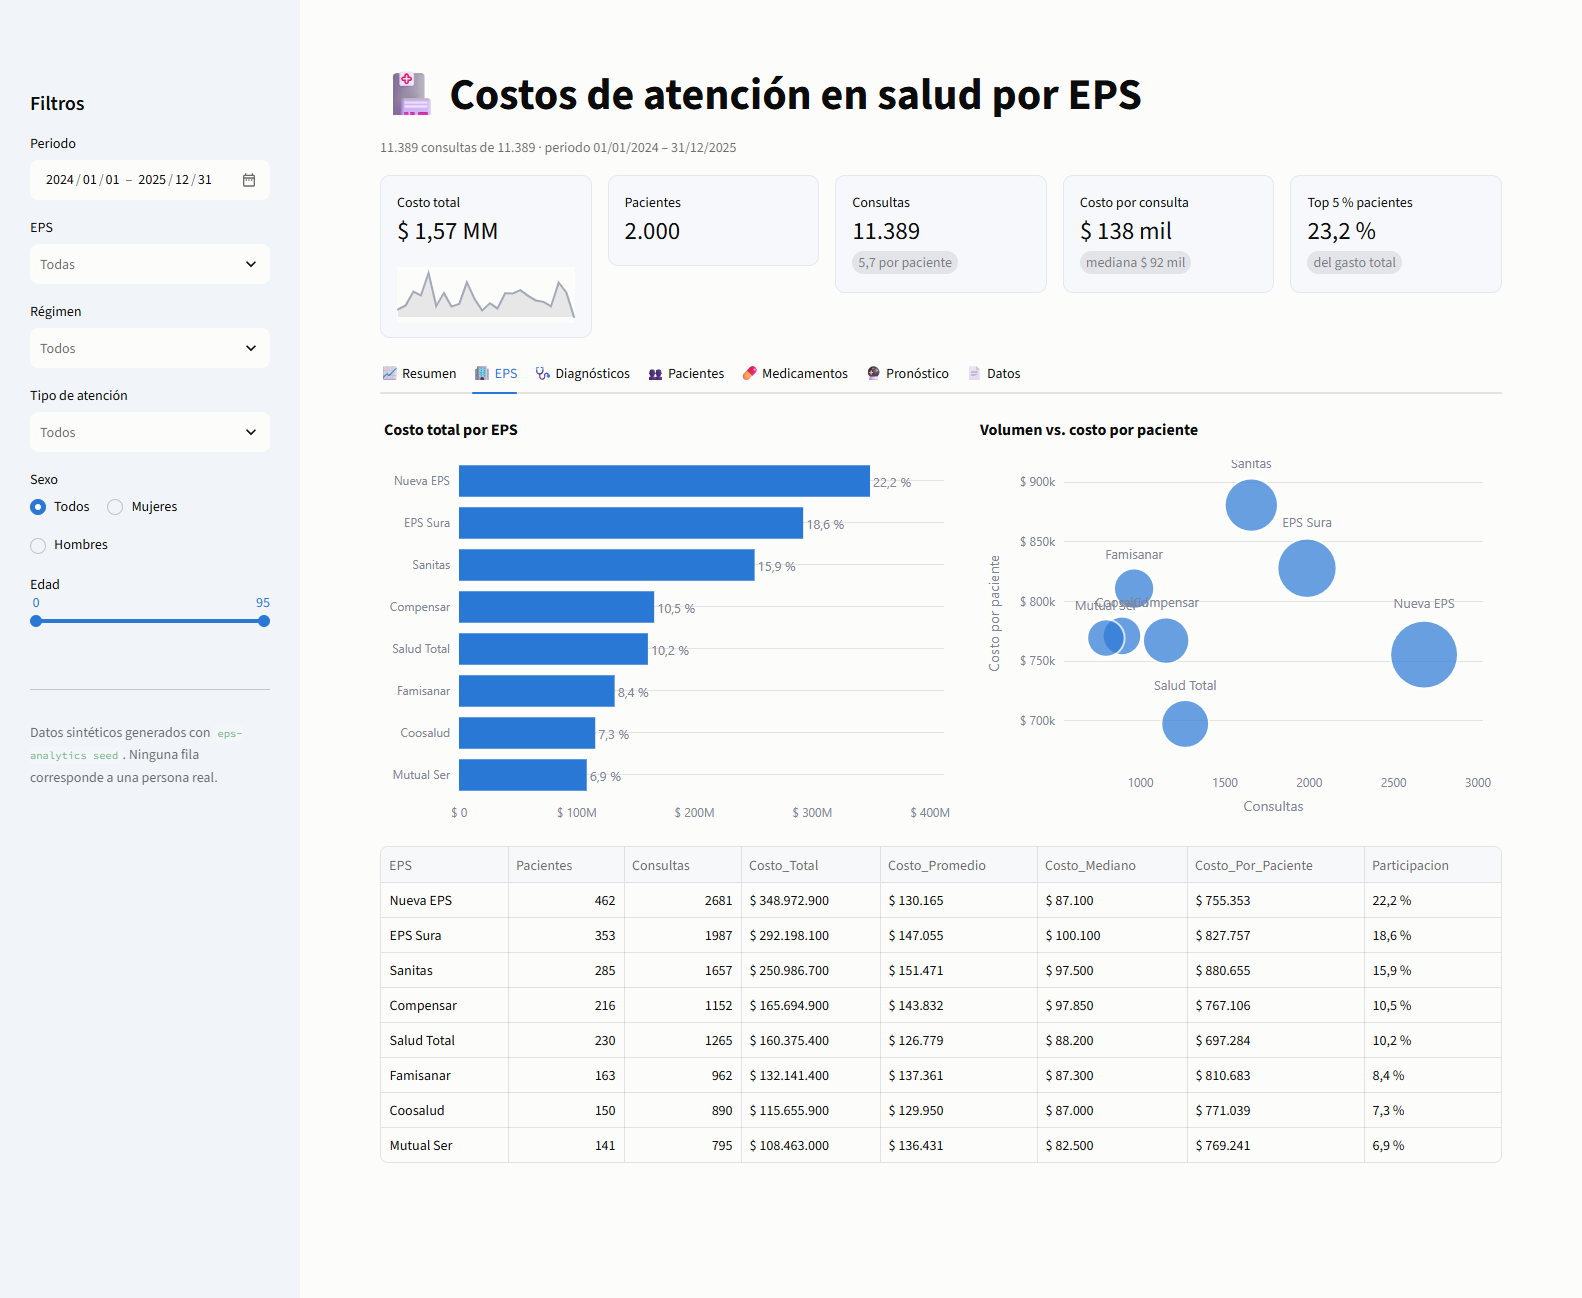
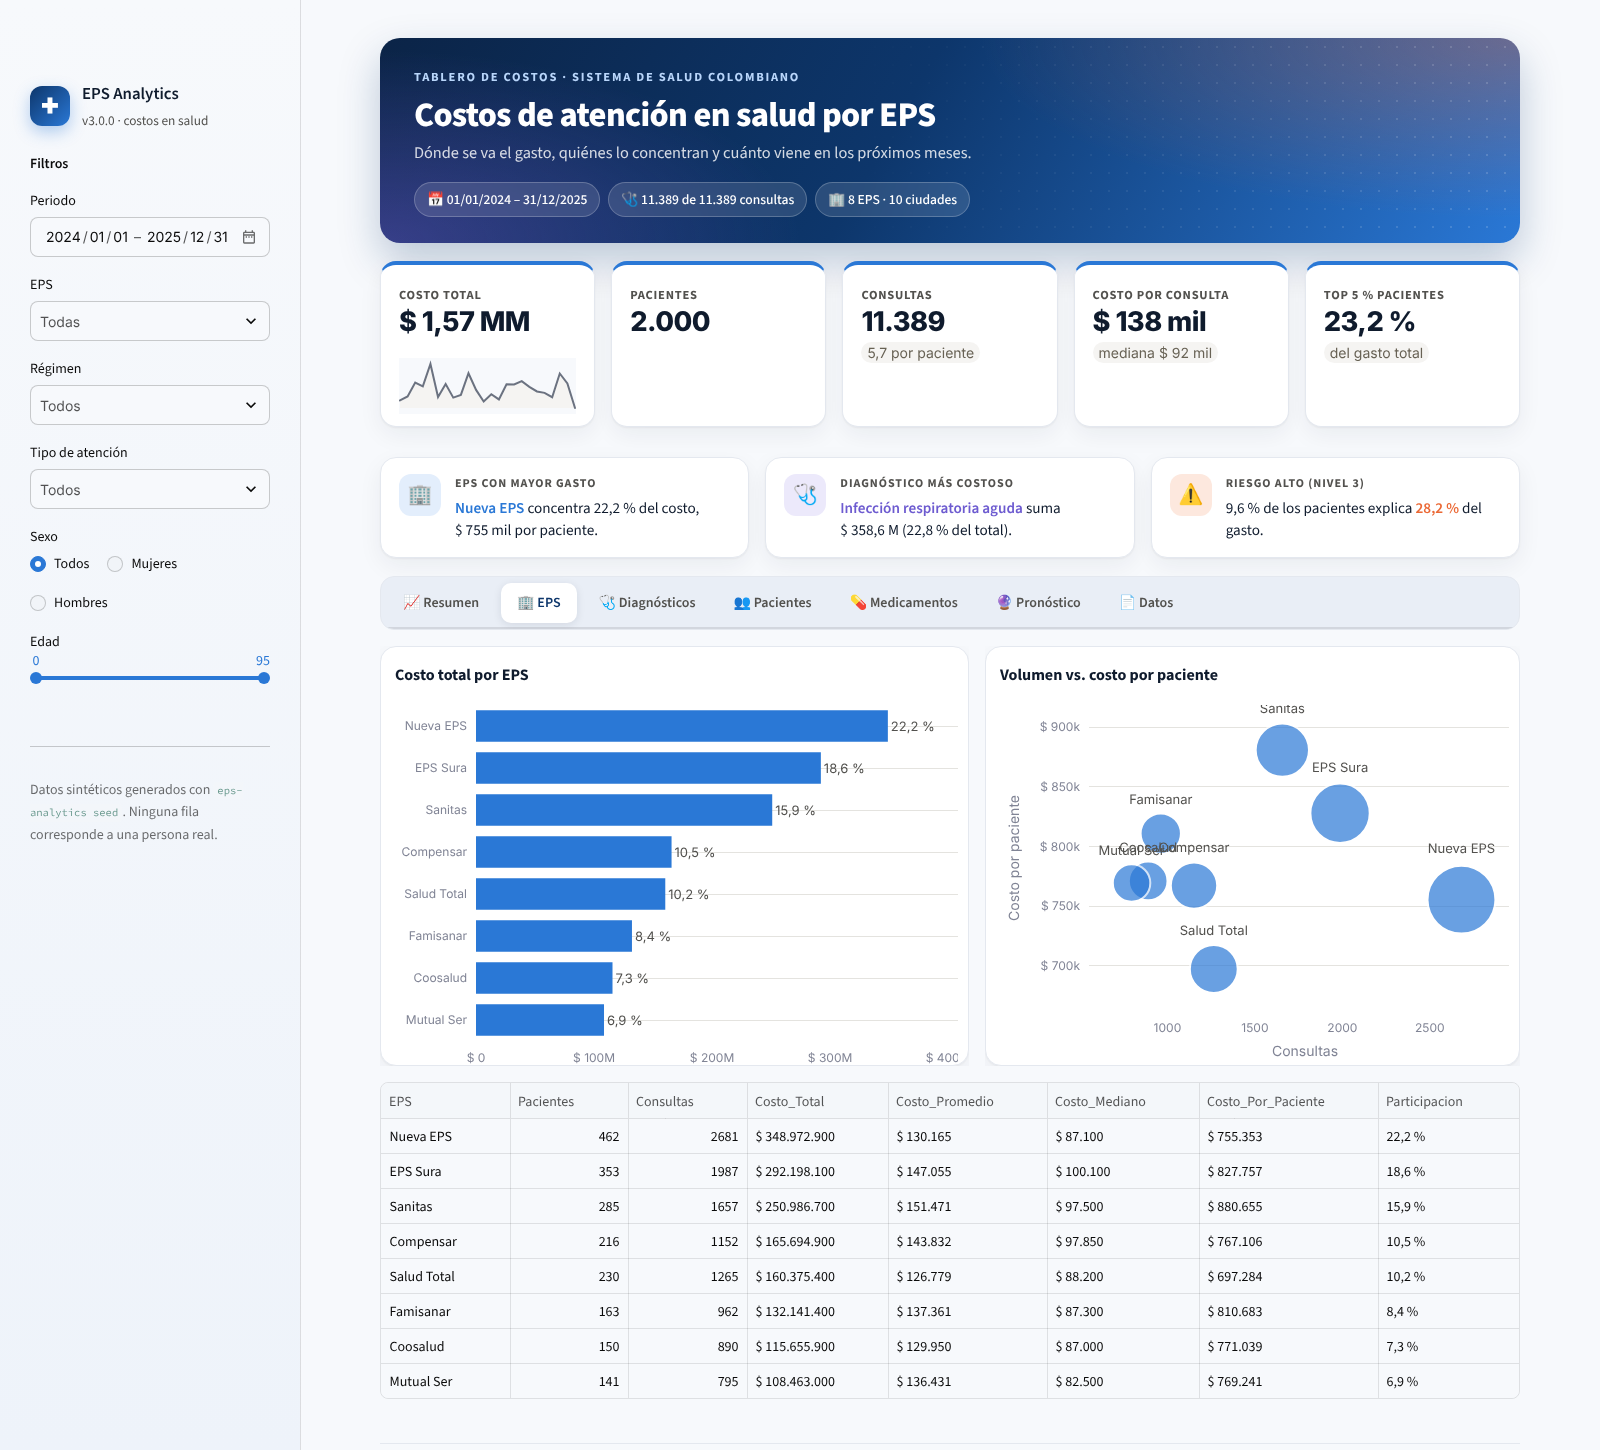
feat(dashboard): rediseño visual con encabezado, hallazgos clave y tema propio
- Encabezado con degradado, periodo y alcance de la selección.
- Tarjetas de indicadores con acento y altura uniforme.
- Tres hallazgos calculados con los filtros: EPS con mayor gasto,
  diagnóstico más costoso y peso del nivel 3 de riesgo.
- Pestañas tipo píldora, gráficos en tarjetas, marca en la barra lateral y pie.
- Estilos separados en dashboard/estilos.css; capturas de docs/images actualizadas.

diff --git a/dashboard/estilos.css b/dashboard/estilos.css
@@ -1,0 +1,125 @@
+@import url("https://fonts.googleapis.com/css2?family=Inter:wght@400;500;600;700;800&display=swap");
+
+:root {
+  --tinta: #0f1b2d;
+  --texto-2: #52514e;
+  --azul: #2a78d6;
+  --azul-osc: #0d366b;
+  --naranja: #eb6834;
+  --violeta: #6d5bd0;
+  --borde: #e4e8ef;
+  --tarjeta: #ffffff;
+  --sombra: 0 1px 2px rgba(15, 27, 45, 0.05), 0 8px 24px rgba(15, 27, 45, 0.06);
+}
+
+.stApp, .stMarkdown, [data-testid="stWidgetLabel"], input { font-family: "Inter", "Segoe UI", sans-serif; }
+.block-container { padding-top: 1.4rem; padding-bottom: 2.5rem; max-width: 1480px; }
+header[data-testid="stHeader"] { background: transparent; }
+
+/* Encabezado */
+.hero {
+  position: relative; overflow: hidden;
+  padding: 30px 34px 26px; margin-bottom: 18px; border-radius: 20px; color: #fff;
+  background:
+    radial-gradient(900px 300px at 100% 0%, rgba(235, 104, 52, 0.35), transparent 60%),
+    radial-gradient(700px 320px at 0% 100%, rgba(109, 91, 208, 0.45), transparent 60%),
+    linear-gradient(120deg, #0b2447 0%, #0d366b 45%, #2a78d6 100%);
+  box-shadow: 0 18px 40px rgba(13, 54, 107, 0.25);
+}
+.hero::after {
+  content: ""; position: absolute; inset: 0; pointer-events: none;
+  background-image: radial-gradient(rgba(255, 255, 255, 0.16) 1px, transparent 1px);
+  background-size: 18px 18px;
+  mask-image: linear-gradient(90deg, transparent 40%, #000 100%);
+}
+.hero-kicker {
+  font-size: 0.78rem; font-weight: 700; letter-spacing: 0.14em; text-transform: uppercase;
+  color: #b9d6fb;
+}
+.hero h1 {
+  margin: 6px 0 4px; padding: 0; color: #fff; font-size: 2.15rem; font-weight: 800; letter-spacing: -0.02em;
+}
+.hero p { margin: 0 0 16px; color: rgba(255, 255, 255, 0.82); font-size: 1.02rem; }
+.hero-chips { display: flex; flex-wrap: wrap; gap: 8px; position: relative; z-index: 1; }
+.hero-chips span {
+  padding: 6px 12px; border-radius: 999px; font-size: 0.85rem; font-weight: 500;
+  background: rgba(255, 255, 255, 0.12); border: 1px solid rgba(255, 255, 255, 0.22);
+  backdrop-filter: blur(6px);
+}
+
+/* Indicadores */
+[data-testid="stMetric"] {
+  background: var(--tarjeta); border: 1px solid var(--borde); border-radius: 16px;
+  padding: 16px 18px 12px; box-shadow: var(--sombra);
+  border-top: 4px solid var(--azul);
+  transition: transform 0.15s ease, box-shadow 0.15s ease;
+}
+[data-testid="stColumn"]:has([data-testid="stMetric"]) > [data-testid="stVerticalBlock"],
+[data-testid="stElementContainer"]:has(> [data-testid="stMetric"]) { height: 100%; }
+[data-testid="stMetric"] { height: 100%; }
+[data-testid="stMetric"]:hover { transform: translateY(-2px); box-shadow: 0 14px 30px rgba(15, 27, 45, 0.1); }
+[data-testid="stMetricLabel"] p {
+  font-size: 0.78rem; font-weight: 700; letter-spacing: 0.06em; text-transform: uppercase; color: var(--texto-2);
+}
+[data-testid="stMetricValue"] { font-size: 1.7rem; font-weight: 800; color: var(--tinta); letter-spacing: -0.02em; }
+
+/* Hallazgos */
+.insight {
+  display: flex; gap: 14px; align-items: flex-start; height: 100%;
+  padding: 16px 18px; margin: 14px 0 6px; border-radius: 16px;
+  background: var(--tarjeta); border: 1px solid var(--borde); box-shadow: var(--sombra);
+}
+.insight-icono {
+  flex: 0 0 42px; height: 42px; display: grid; place-items: center; border-radius: 12px; font-size: 1.25rem;
+}
+.insight-azul .insight-icono { background: #e3eefc; }
+.insight-violeta .insight-icono { background: #ece9fb; }
+.insight-naranja .insight-icono { background: #fde8de; }
+.insight-titulo {
+  font-size: 0.75rem; font-weight: 700; letter-spacing: 0.08em; text-transform: uppercase; color: var(--texto-2);
+}
+.insight-texto { margin-top: 3px; font-size: 0.95rem; line-height: 1.45; color: var(--tinta); }
+.insight-azul b { color: var(--azul); }
+.insight-violeta b { color: var(--violeta); }
+.insight-naranja b { color: var(--naranja); }
+
+/* Pestañas tipo píldora */
+.stTabs [role="tablist"] {
+  gap: 6px; padding: 6px; margin-top: 12px; border-radius: 14px; background: #e9eef6; border: 1px solid var(--borde);
+  border-bottom: 1px solid var(--borde);
+}
+.stTabs [role="tab"] {
+  display: flex; align-items: center; height: 40px; padding: 0 16px; border-radius: 10px;
+  color: var(--texto-2); transition: background 0.15s ease;
+}
+.stTabs [role="tab"] p { font-weight: 600; }
+.stTabs [role="tab"]:hover { background: rgba(255, 255, 255, 0.6); }
+.stTabs [role="tab"][aria-selected="true"] {
+  background: #fff; color: var(--azul-osc); box-shadow: 0 2px 8px rgba(15, 27, 45, 0.1);
+}
+.stTabs .react-aria-SelectionIndicator, .stTabs [data-baseweb="tab-highlight"],
+.stTabs [data-baseweb="tab-border"] { display: none; }
+
+/* Gráficos y tablas como tarjetas */
+[data-testid="stPlotlyChart"] {
+  background: var(--tarjeta); border: 1px solid var(--borde); border-radius: 16px;
+  padding: 8px 10px; box-shadow: var(--sombra);
+}
+
+/* Barra lateral */
+section[data-testid="stSidebar"] { background: linear-gradient(180deg, #f7f9fc 0%, #eef3fa 100%); }
+.marca { display: flex; align-items: center; gap: 12px; margin: 4px 0 18px; }
+.marca-logo {
+  width: 40px; height: 40px; display: grid; place-items: center; border-radius: 12px;
+  color: #fff; font-size: 1.3rem; font-weight: 800;
+  background: linear-gradient(135deg, #0d366b, #2a78d6);
+  box-shadow: 0 6px 16px rgba(42, 120, 214, 0.35);
+}
+.marca b { display: block; color: var(--tinta); font-size: 1.05rem; }
+.marca small { color: var(--texto-2); }
+
+.pie {
+  margin-top: 28px; padding-top: 16px; border-top: 1px solid var(--borde);
+  text-align: center; font-size: 0.85rem; color: var(--texto-2);
+}
+.pie b { color: var(--azul-osc); }

diff --git a/dashboard/app.py b/dashboard/app.py
@@ -5,7 +5,10 @@ Ejecutar con:  eps-analytics dashboard   (o)   streamlit run dashboard/app.py
 
 from __future__ import annotations
 
+import html
 import io
+import re
+from pathlib import Path
 
 import numpy as np
 import pandas as pd
@@ -13,6 +16,7 @@ import plotly.express as px
 import plotly.graph_objects as go
 import streamlit as st
 
+from eps_analytics import __version__
 from eps_analytics.adaptadores import formato as fmt
 from eps_analytics.contenedor import contenedor
 from eps_analytics.dominio import indicadores as an
@@ -28,19 +32,8 @@ COLOR_SEXO = {"Mujeres": AZUL, "Hombres": NARANJA}
 
 st.set_page_config(page_title="EPS Analytics", page_icon="🏥", layout="wide")
 
-st.markdown(
-    """
-    <style>
-      .block-container {padding-top: 2rem; padding-bottom: 2rem;}
-      [data-testid="stMetric"] {
-        background: #f6f8fb; border: 1px solid #e4e8ef; border-radius: 10px;
-        padding: 14px 16px;
-      }
-      [data-testid="stMetricValue"] {font-size: 1.55rem;}
-    </style>
-    """,
-    unsafe_allow_html=True,
-)
+ESTILOS = (Path(__file__).parent / "estilos.css").read_text(encoding="utf-8")
+st.markdown(f"<style>{ESTILOS}</style>", unsafe_allow_html=True)
 
 
 @st.cache_data(show_spinner="Cargando datos…")
@@ -50,16 +43,30 @@ def cargar() -> tuple[pd.DataFrame, pd.DataFrame]:
         return app.cargar_tablero(sembrar_si_vacia=True).ejecutar()
 
 
+def _sin_cortes(texto: str) -> str:
+    """Espacios duros dentro de cifras para que "28,2 %" o "$ 358,6 M" no se partan en dos líneas."""
+    return re.sub(r"(?<=[\d$]) (?=[\d%M]|mil)", "\u00a0", texto)
+
+
+def tarjeta(icono: str, titulo: str, texto: str, tono: str = "azul") -> str:
+    return (
+        f'<div class="insight insight-{tono}"><div class="insight-icono">{icono}</div>'
+        f'<div><div class="insight-titulo">{html.escape(titulo)}</div>'
+        f'<div class="insight-texto">{_sin_cortes(texto)}</div>'
+        "</div></div>"
+    )
+
+
 def estilo(fig: go.Figure, alto: int = 380) -> go.Figure:
     fig.update_layout(
         height=alto,
         margin={"l": 10, "r": 10, "t": 50, "b": 10},
         plot_bgcolor="rgba(0,0,0,0)",
         paper_bgcolor="rgba(0,0,0,0)",
-        font={"family": "Inter, Segoe UI, sans-serif", "size": 13},
-        title={"x": 0, "xanchor": "left", "font": {"size": 16}},
+        font={"family": "Inter, Segoe UI, sans-serif", "size": 13, "color": TEXTO_2},
+        title={"x": 0, "xanchor": "left", "font": {"size": 16, "color": "#0f1b2d"}},
         legend={"orientation": "h", "y": 1.08, "x": 1, "xanchor": "right", "title": None},
-        hoverlabel={"bgcolor": "white"},
+        hoverlabel={"bgcolor": "white", "bordercolor": GRID, "font": {"family": "Inter, sans-serif"}},
         bargap=0.25,
     )
     fig.update_xaxes(gridcolor=GRID, zeroline=False)
@@ -77,7 +84,12 @@ datos, meds = cargar()
 
 # ----------------------------------------------------------------- filtros
 with st.sidebar:
-    st.header("Filtros")
+    st.markdown(
+        '<div class="marca"><span class="marca-logo">✚</span><div><b>EPS Analytics</b>'
+        f"<small>v{__version__} · costos en salud</small></div></div>",
+        unsafe_allow_html=True,
+    )
+    st.markdown("##### Filtros")
     fecha_min, fecha_max = datos["Fecha_Consulta"].min().date(), datos["Fecha_Consulta"].max().date()
     rango = st.date_input("Periodo", (fecha_min, fecha_max), min_value=fecha_min, max_value=fecha_max)
     eps_sel = st.multiselect("EPS", sorted(datos["EPS"].unique()), placeholder="Todas")
@@ -107,12 +119,22 @@ df = df[df["Edad"].between(*edad_sel)]
 meds_f = meds[meds["ID_Consulta"].isin(df["ID_Consulta"])]
 
 # ----------------------------------------------------------------- encabezado
-st.title("🏥 Costos de atención en salud por EPS")
-st.caption(
-    f"{fmt.numero(len(df))} consultas de {fmt.numero(len(datos))} · "
-    f"periodo {df['Fecha_Consulta'].min():%d/%m/%Y} – {df['Fecha_Consulta'].max():%d/%m/%Y}"
-    if not df.empty
-    else "Sin datos para los filtros seleccionados"
+if df.empty:
+    chips = ["Sin datos para los filtros seleccionados"]
+else:
+    chips = [
+        f"📅 {df['Fecha_Consulta'].min():%d/%m/%Y} – {df['Fecha_Consulta'].max():%d/%m/%Y}",
+        f"🩺 {fmt.numero(len(df))} de {fmt.numero(len(datos))} consultas",
+        f"🏢 {df['EPS'].nunique()} EPS · {df['Ciudad'].nunique()} ciudades",
+    ]
+st.markdown(
+    '<section class="hero"><div class="hero-kicker">Tablero de costos · Sistema de salud colombiano</div>'
+    "<h1>Costos de atención en salud por EPS</h1>"
+    "<p>Dónde se va el gasto, quiénes lo concentran y cuánto viene en los próximos meses.</p>"
+    '<div class="hero-chips">'
+    + "".join(f"<span>{html.escape(c)}</span>" for c in chips)
+    + "</div></section>",
+    unsafe_allow_html=True,
 )
 
 if df.empty:
@@ -149,6 +171,43 @@ c5.metric(
     "del gasto total",
     delta_color="off",
     delta_arrow="off",
+)
+
+# Hallazgos clave, calculados sobre la selección actual
+eps_top = an.costos_por_eps(df).iloc[0]
+dx_top = an.costos_por_diagnostico(df).iloc[0]
+# El índice de diagnósticos es (código CIE-10, nombre)
+nombre_dx = str(dx_top.name[-1] if isinstance(dx_top.name, tuple) else dx_top.name)
+piramide_sel = riesgo.resumen_piramide(riesgo.estratificar(df)).iloc[-1]
+i1, i2, i3 = st.columns(3)
+i1.markdown(
+    tarjeta(
+        "🏢",
+        "EPS con mayor gasto",
+        f"<b>{html.escape(str(eps_top.name))}</b> concentra {fmt.porcentaje(eps_top['Participacion'])} "
+        f"del costo, {fmt.cop_compacto(eps_top['Costo_Por_Paciente'])} por paciente.",
+    ),
+    unsafe_allow_html=True,
+)
+i2.markdown(
+    tarjeta(
+        "🩺",
+        "Diagnóstico más costoso",
+        f"<b>{html.escape(nombre_dx)}</b> suma {fmt.cop_compacto(dx_top['Costo_Total'])} "
+        f"({fmt.porcentaje(dx_top['Participacion'])} del total).",
+        "violeta",
+    ),
+    unsafe_allow_html=True,
+)
+i3.markdown(
+    tarjeta(
+        "⚠",
+        "Riesgo alto (nivel 3)",
+        f"{fmt.porcentaje(piramide_sel['Participacion_Pacientes'])} de los pacientes explica "
+        f"<b>{fmt.porcentaje(piramide_sel['Participacion_Gasto'])}</b> del gasto.",
+        "naranja",
+    ),
+    unsafe_allow_html=True,
 )
 
 tab_res, tab_eps, tab_dx, tab_pac, tab_med, tab_pron, tab_datos = st.tabs(
@@ -578,3 +637,9 @@ with tab_datos:
         "consultas_eps.xlsx",
         "application/vnd.openxmlformats-officedocument.spreadsheetml.sheet",
     )
+
+st.markdown(
+    '<footer class="pie">EPS Analytics v' + __version__ + " · arquitectura hexagonal · "
+    "datos 100 % sintéticos · hecho en Colombia por <b>ZemZysteM</b></footer>",
+    unsafe_allow_html=True,
+)
